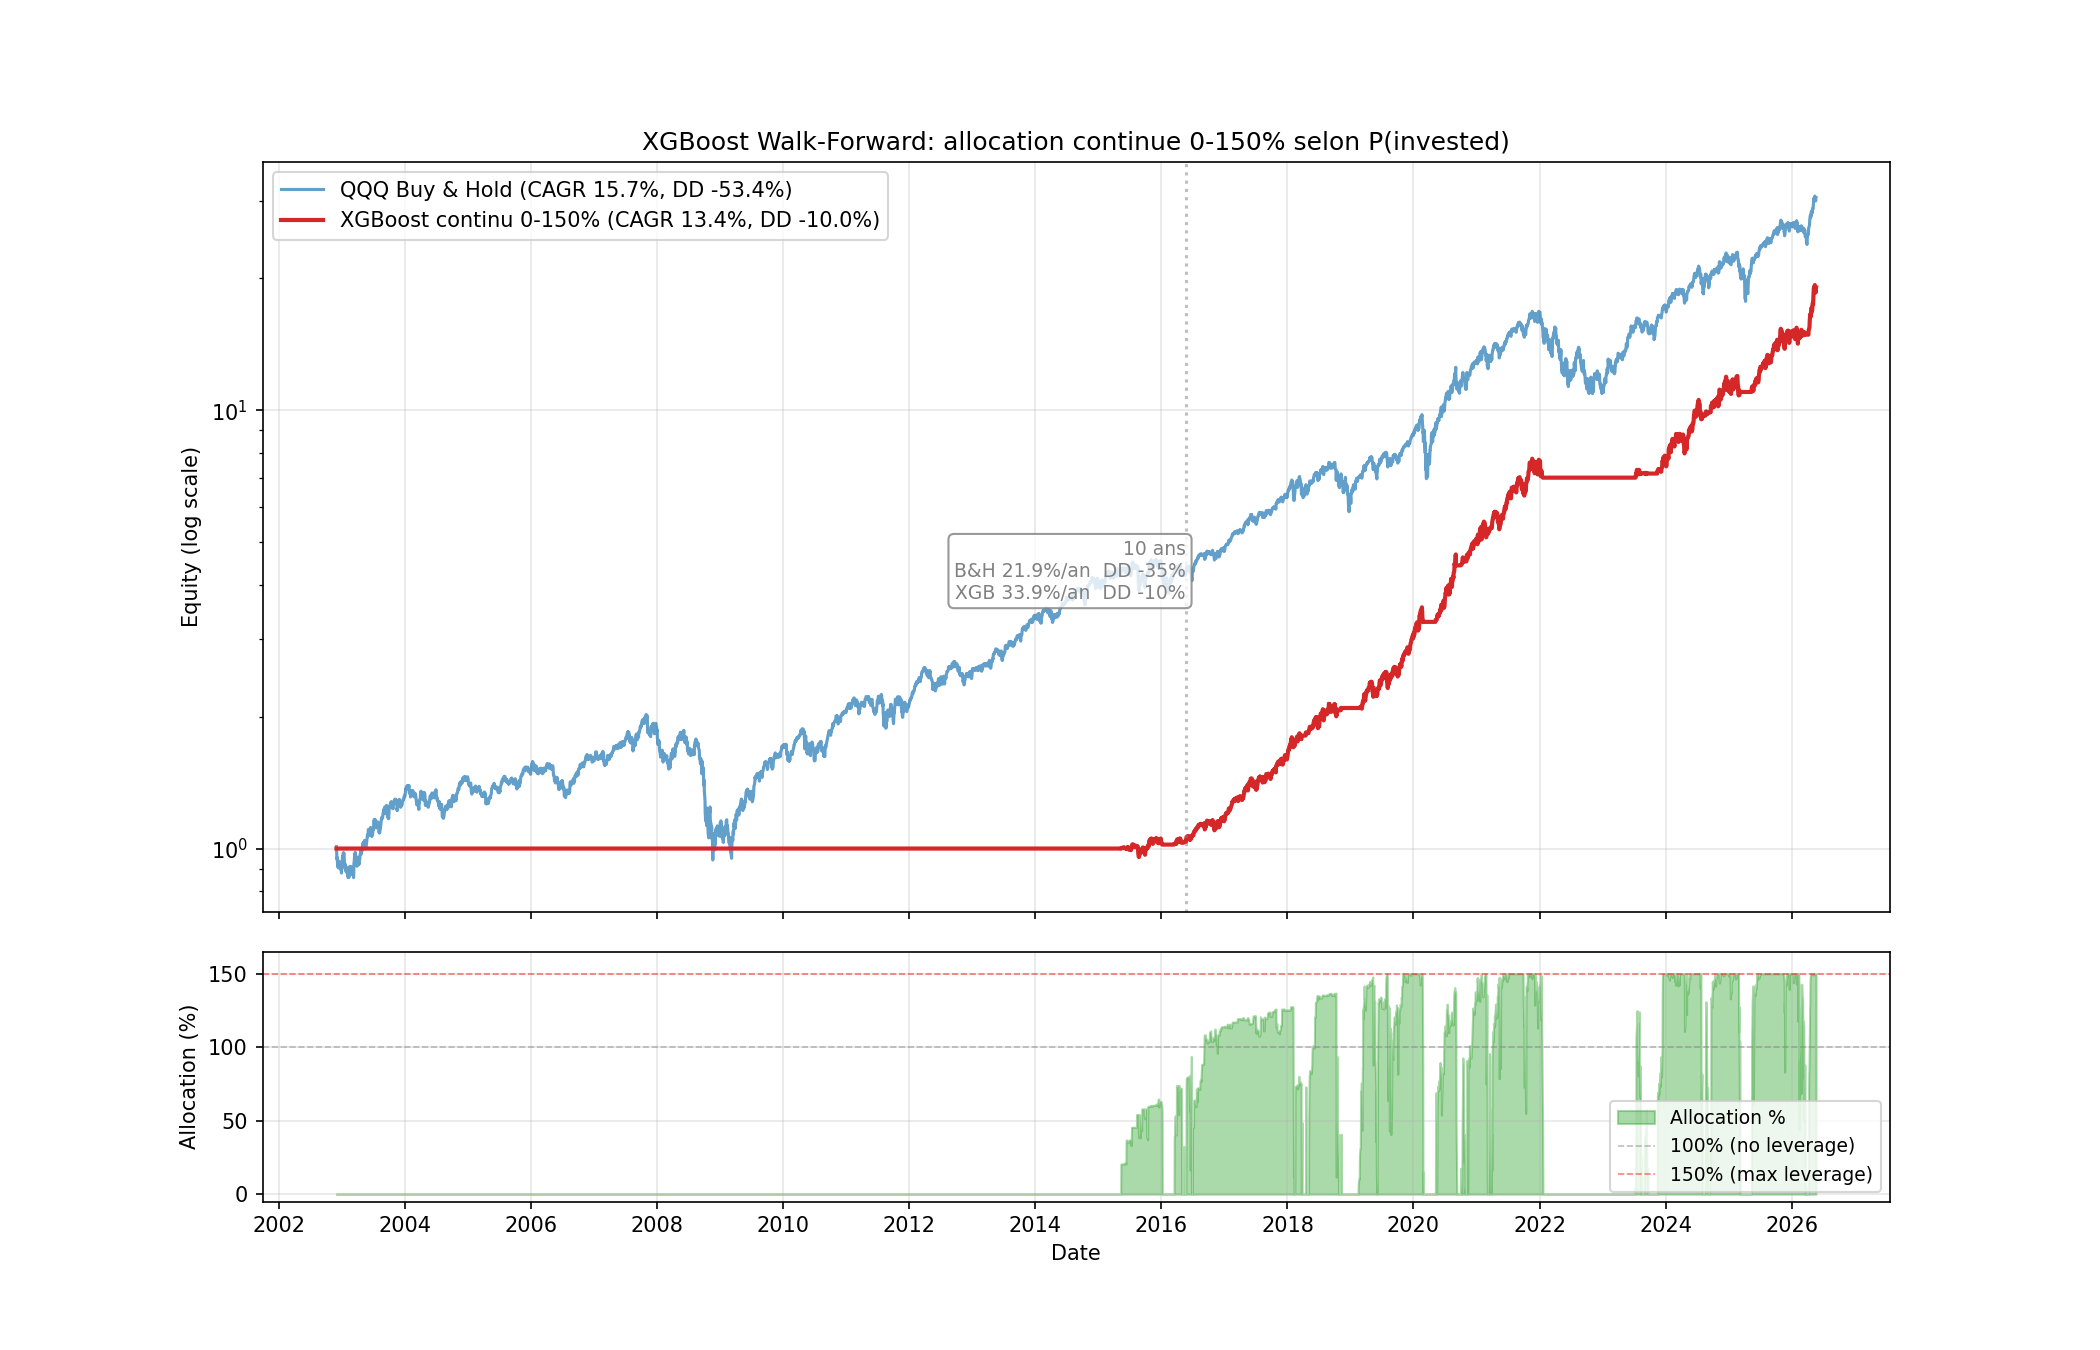
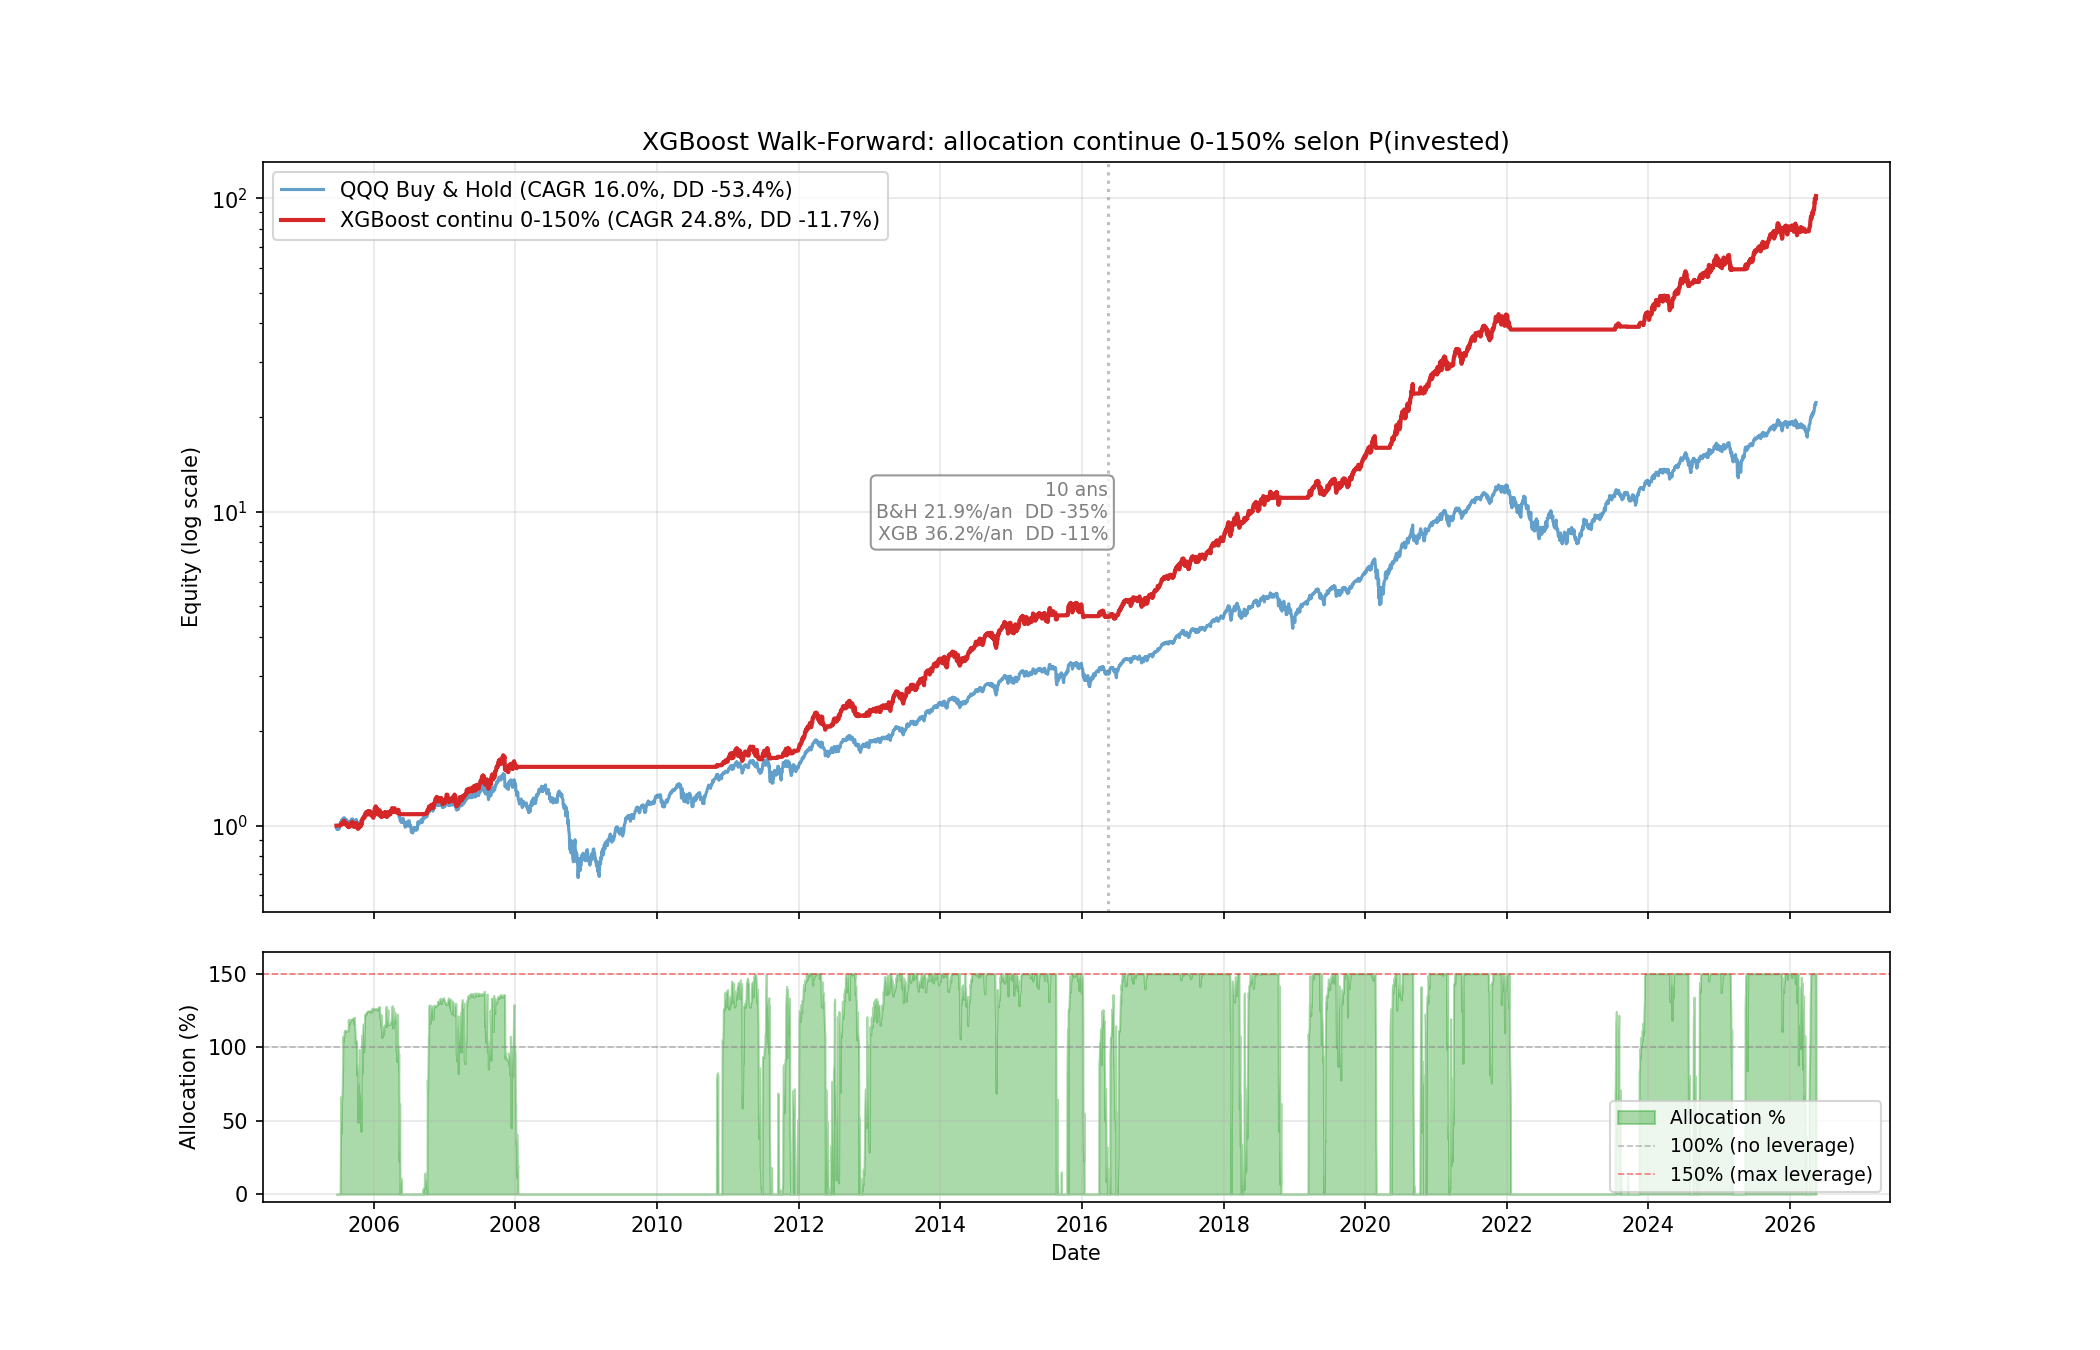
feat: add TLT (bonds) features to QQQ strategy
Added 16 TLT features: QQQ/TLT ratio, TLT momentum, cross interactions.
CAGR 13.4% -> 24.8% (full), 33.9% -> 36.2% (10y), DD -10.0% -> -11.7%

TLT captures flight-to-safety flows (risk-on vs risk-off).

diff --git a/src/qqq_strategy/data.py b/src/qqq_strategy/data.py
@@ -13,13 +13,15 @@ def load_data(start="2006-01-01", end="2026-05-31"):
     qqq = pd.read_parquet(DATA_DIR / "QQQ.parquet")["close"]
     vix = pd.read_parquet(DATA_DIR / "vix_ohlc.parquet")["close"]
     spread = pd.read_parquet(DATA_DIR / "fred_baa_spread.parquet")["baa_spread"]
+    tlt = pd.read_parquet(DATA_DIR / "TLT.parquet")["close"]
 
     qqq = qqq.loc[start:end].dropna()
     vix = vix.loc[start:end].dropna()
     spread = spread.loc[start:end].dropna()
+    tlt = tlt.loc[start:end].dropna()
 
-    common = qqq.index.intersection(vix.index).intersection(spread.index)
-    return qqq.loc[common], vix.loc[common], spread.loc[common]
+    common = qqq.index.intersection(vix.index).intersection(spread.index).intersection(tlt.index)
+    return qqq.loc[common], vix.loc[common], spread.loc[common], tlt.loc[common]
 
 
 def build_realtime_target(prices, dd_exit=-0.10, dd_reenter=-0.05):
@@ -39,7 +41,7 @@ def build_realtime_target(prices, dd_exit=-0.10, dd_reenter=-0.05):
     return target, drawdown_arr
 
 
-def build_features(qqq, vix, spread):
+def build_features(qqq, vix, spread, tlt=None):
     prices = qqq.values
     dates = qqq.index
     n = len(prices)
@@ -159,4 +161,21 @@ def build_features(qqq, vix, spread):
     # 13. Spread acceleration
     df["spread_accel"] = df["spread"].diff(5).diff(5)
 
+    # 14. QQQ/TLT ratio (risk-on vs risk-off)
+    if tlt is not None:
+        tlt_s = pd.Series(tlt.values, index=dates)
+        df["tlt"] = tlt_s
+        df["qqq_tlt_ratio"] = df["qqq_close"] / tlt_s
+        for w in [5, 10, 20, 50]:
+            df[f"qqq_tlt_ratio_ret{w}"] = df["qqq_tlt_ratio"].pct_change(w)
+        df["qqq_tlt_ratio_vs_sma20"] = df["qqq_tlt_ratio"] / df["qqq_tlt_ratio"].rolling(20).mean() - 1
+        df["qqq_tlt_ratio_vs_sma50"] = df["qqq_tlt_ratio"] / df["qqq_tlt_ratio"].rolling(50).mean() - 1
+        # TLT momentum (flight to safety)
+        for w in [5, 10, 20, 50]:
+            df[f"tlt_ret{w}"] = tlt_s.pct_change(w)
+        df["tlt_vs_sma20"] = tlt_s / tlt_s.rolling(20).mean() - 1
+        df["tlt_vs_sma50"] = tlt_s / tlt_s.rolling(50).mean() - 1
+        # Cross interactions
+        df["tlt_x_vix"] = df["tlt_ret5"] * df["vix"]
+        df["tlt_x_dd"] = df["tlt_ret5"] * drawdown_arr
     return df

diff --git a/src/qqq_strategy/run.py b/src/qqq_strategy/run.py
@@ -27,8 +27,8 @@ PROB_CASH = 0.5
 PROB_FULL = 0.85
 
 # ── Data ──────────────────────────────────────────────────
-qqq, vix, spread = load_data(START, END)
-df = build_features(qqq, vix, spread)
+qqq, vix, spread, tlt = load_data(START, END)
+df = build_features(qqq, vix, spread, tlt)
 
 target, _ = build_realtime_target(qqq.values, DD_EXIT, DD_REENTER)
 df["target"] = target
